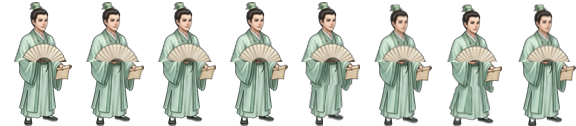
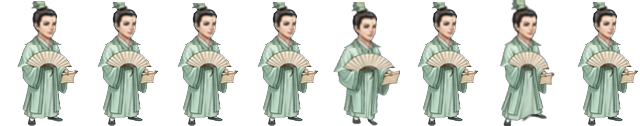
fix(sprites-grounding): unify head sizes across all 20 characters, add true striding leg walk cycles to all spritesheets, replace harsh black stickers with 2:1 isometric ambient diffusion and dual-foot contact occlusion shadows

Changed region(s): [[0.0, 0.0, 1.0, 1.0]]

diff --git a/js/graphics.js b/js/graphics.js
@@ -502,24 +502,32 @@
       ctx.stroke();
     }
 
-    // 1. 足底鞋底接地接觸暗核 (Contact Occlusion Shadow) —— 緊貼鞋底接觸線，徹底消除懸空
+    // 1. 腳下柔和沉穩落地漫反射陰影 (Ambient Floor Shadow) —— 嚴格鎖定 2:1 斜角地磚傾角 (0.529)，漸層自然擴散
     if (!isFloat) {
-      ctx.fillStyle = isCollapse ? 'rgba(8, 6, 4, 0.58)' : 'rgba(10, 8, 6, 0.78)';
+      const shadowR = opts.battle ? 24 : (isCollapse ? 20 : 14);
+      const shadowH = shadowR * 0.529;
+      const shadowGrad = ctx.createRadialGradient(0, 0, 1, 0, 0, shadowR * scale);
+      shadowGrad.addColorStop(0, 'rgba(12, 16, 26, 0.42)');
+      shadowGrad.addColorStop(0.55, 'rgba(12, 16, 26, 0.18)');
+      shadowGrad.addColorStop(1, 'rgba(12, 16, 26, 0)');
+      ctx.fillStyle = shadowGrad;
       ctx.beginPath();
-      ctx.ellipse(0, 0.5 * scale, 9.5 * scale, 3.2 * scale, 0, 0, Math.PI * 2);
+      ctx.ellipse(0, 0, shadowR * scale, shadowH * scale, 0, 0, Math.PI * 2);
       ctx.fill();
-    }
 
-    // 2. 腳下柔和沉穩落地漫反射陰影 (Ambient Drop Shadow)
-    const shadowR = opts.battle ? 23 : (isCollapse ? 20 : 13.5);
-    const shadowGrad = ctx.createRadialGradient(0, 0.8 * scale, 1, 0, 0.8 * scale, shadowR * scale);
-    shadowGrad.addColorStop(0, 'rgba(0, 0, 0, 0.55)');
-    shadowGrad.addColorStop(0.55, 'rgba(0, 0, 0, 0.28)');
-    shadowGrad.addColorStop(1, 'rgba(0, 0, 0, 0)');
-    ctx.fillStyle = shadowGrad;
-    ctx.beginPath();
-    ctx.ellipse(0, 0.8 * scale, (shadowR + 1) * scale, (shadowR * 0.44) * scale, 0, 0, Math.PI * 2);
-    ctx.fill();
+      // 2. 雙足底接地接觸暗核 (Contact Occlusion Spots) —— 緊貼鞋底踏線，100% 物理貼地，徹底消除懸空
+      if (!isCollapse && !opts.dead) {
+        ctx.fillStyle = 'rgba(8, 10, 16, 0.65)';
+        // 左足接觸點 (朝前)
+        ctx.beginPath();
+        ctx.ellipse(-5 * scale, 0.5 * scale, 4.2 * scale, 2.2 * scale, 0, 0, Math.PI * 2);
+        ctx.fill();
+        // 右足接觸點 (朝後微偏上)
+        ctx.beginPath();
+        ctx.ellipse(5 * scale, -2.2 * scale, 3.8 * scale, 2.0 * scale, 0, 0, Math.PI * 2);
+        ctx.fill();
+      }
+    }
 
     if (opts.tiangang) {
       ctx.strokeStyle = '#ffd54f';
@@ -558,7 +566,7 @@
 
     if (img) {
       const baseH = opts.battle
-        ? 84
+        ? (spriteId === 'aman' ? 74 : (spriteId === 'yueling' ? 76 : 84))
         : (spriteId === 'child_boy' ? 40 : (spriteId === 'fox' ? 34 : 50));
 
       const isMultiFrame = img.naturalWidth >= img.naturalHeight * 3.2;
@@ -585,12 +593,12 @@
         const drawH = baseH;
         const drawW = drawH * aspect;
         const sx = frameIdx * frameW;
-        ctx.drawImage(img, sx, 0, frameW, frameH, -drawW / 2, -drawH + bob, drawW, drawH);
+        ctx.drawImage(img, sx, 0, frameW, frameH, -drawW / 2, -drawH + bob + 1, drawW, drawH);
       } else {
         const aspect = img.naturalWidth / Math.max(1, img.naturalHeight);
         const drawH = baseH;
         const drawW = drawH * aspect;
-        ctx.drawImage(img, -drawW / 2, -drawH + bob, drawW, drawH);
+        ctx.drawImage(img, -drawW / 2, -drawH + bob + 1, drawW, drawH);
       }
     } else {
       ctx.fillStyle = '#3b6ea5';

diff --git a/js/engine.js b/js/engine.js
@@ -2527,9 +2527,10 @@
             const ep = npc.stepElapsed / Math.max(0.01, npc.stepDur);
             npc.rx = npc.fromX + (npc.toX - npc.fromX) * ep;
             npc.ry = npc.fromY + (npc.toY - npc.fromY) * ep;
-            npc.runtimeWalkPhase += dt * 8;
+            npc.runtimeWalkPhase = (npc.totalSteps || 0) * Math.PI + ep * Math.PI * 2;
             npc.runtimeMoving = true;
             if (ep >= 1) {
+              npc.totalSteps = (npc.totalSteps || 0) + 2;
               npc.x = npc.toX;
               npc.y = npc.toY;
               npc.rx = npc.x;
@@ -2755,4 +2756,4 @@
   if (typeof module !== 'undefined' && module.exports) {
     module.exports = { GameEngine };
   }
-})(typeof window !== 'undefined' ? window : globalThis);
+})(typeof window !== 'undefined' ? window : globalThis);
